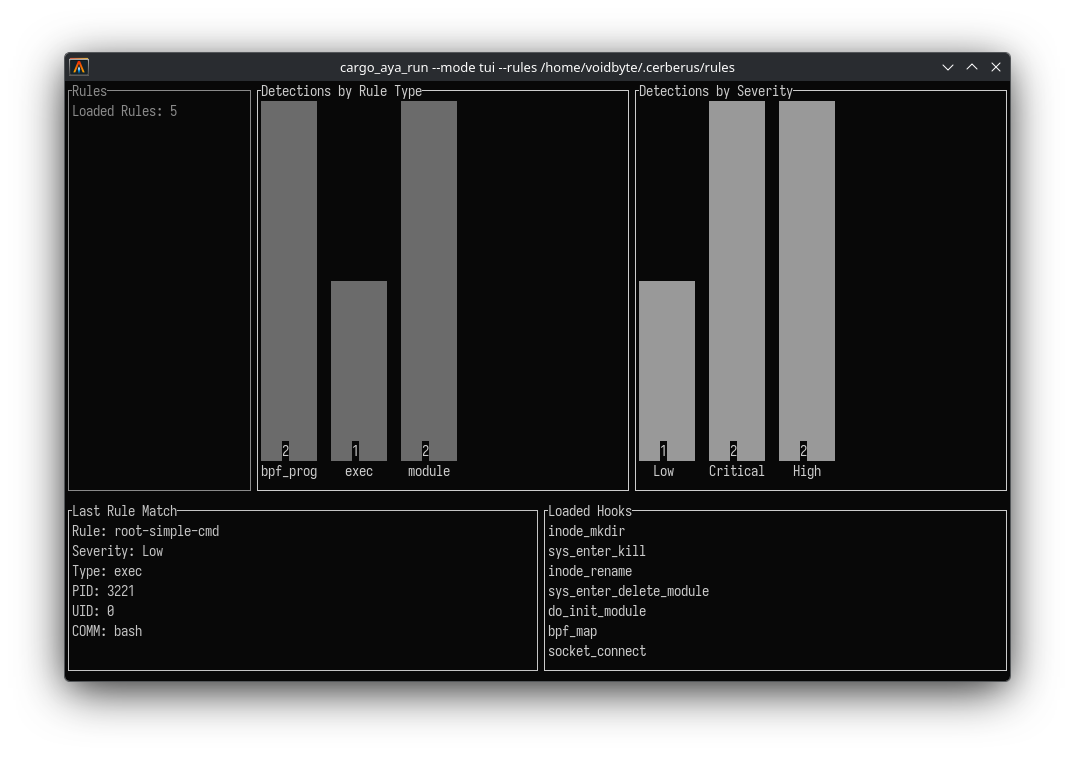
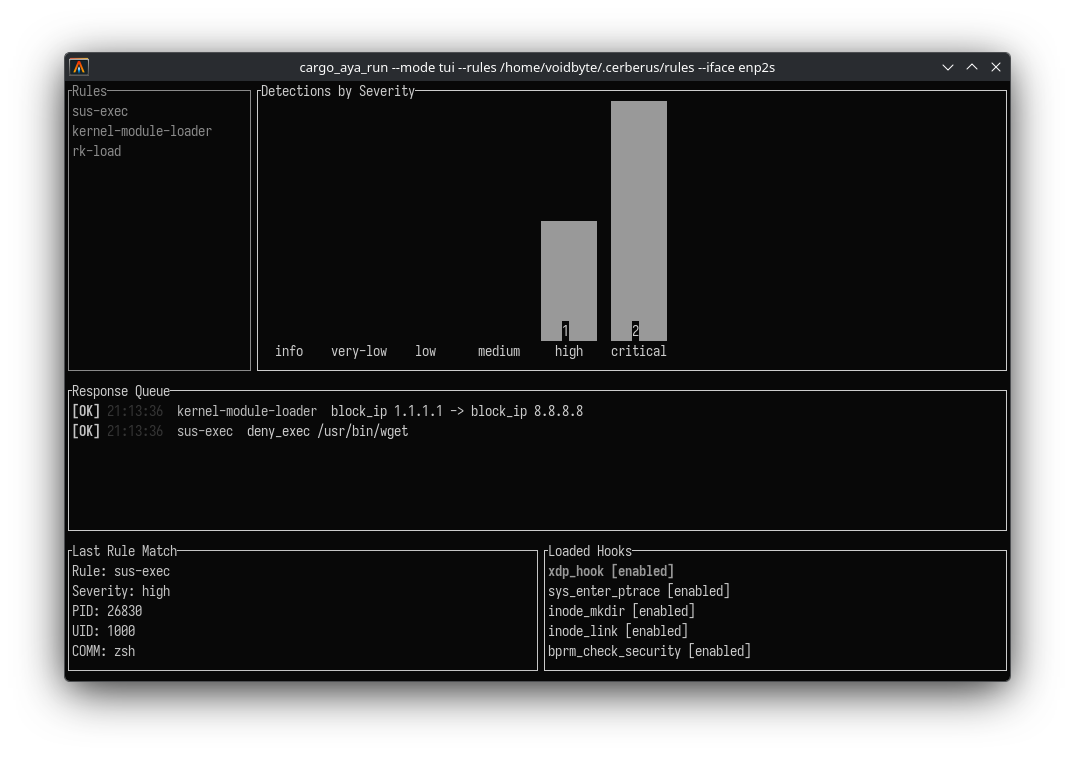
new image

diff --git a/crates/apps/cerberus/src/core/app_state.rs b/crates/apps/cerberus/src/core/app_state.rs
@@ -1,8 +1,6 @@
 use std::collections::{HashMap, VecDeque};
 use std::sync::Arc;
-use std::time::SystemTime;
 
-use indexmap::IndexMap;
 use lib_rules::{CorrelationEvent, EvaluatedEvent, ResolvedAction, Severity};
 use ratatui::layout::Rect;
 use time::OffsetDateTime;
